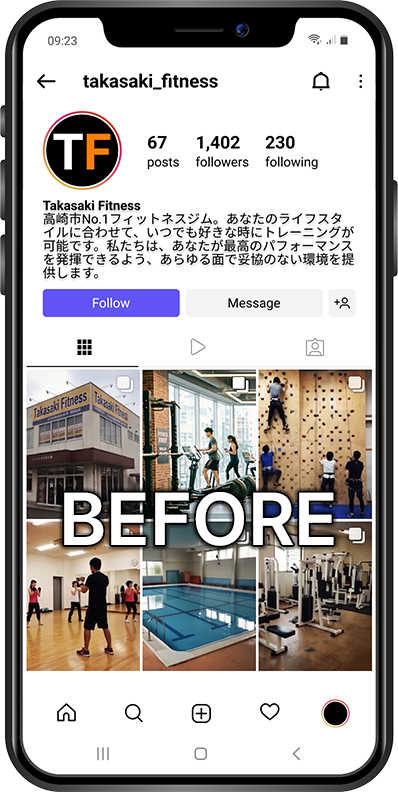
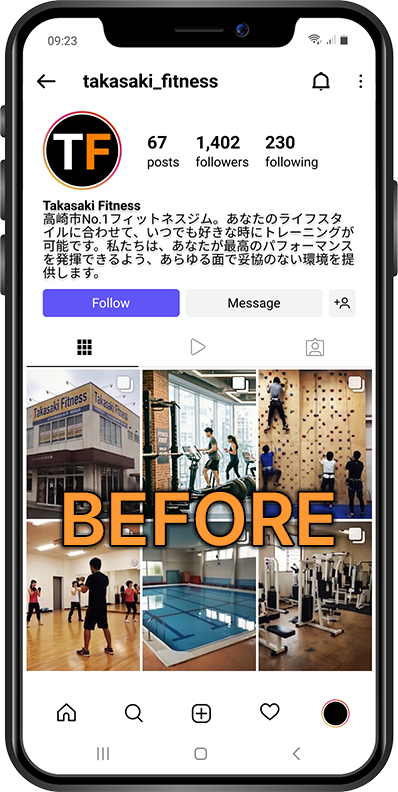
feat: add intersection-triggered overlay to taka case study
Implement an intersection observer to trigger a temporary overlay for the 'taka' case study when it enters the viewport.

Changed region(s): [[0.1508, 0.6061, 0.8442, 0.697]]

diff --git a/src/components/CaseStudies.tsx b/src/components/CaseStudies.tsx
@@ -1,3 +1,4 @@
+import { useState, useEffect, useRef } from "react";
 import { useLanguage } from "@/context/LanguageContext";
 
 interface CaseStudy {
@@ -119,6 +120,41 @@ const cases: CaseStudy[] = [
 
 export const CaseStudies = () => {
   const { t, lang } = useLanguage();
+  const [showInstaOverlay, setShowInstaOverlay] = useState(false);
+  const takaRef = useRef<HTMLElement>(null);
+
+  useEffect(() => {
+    const element = takaRef.current;
+    if (!element) return;
+
+    let timeoutId: any;
+
+    const observer = new IntersectionObserver(
+      (entries) => {
+        entries.forEach((entry) => {
+          if (entry.isIntersecting) {
+            setShowInstaOverlay(true);
+            if (timeoutId) clearTimeout(timeoutId);
+            timeoutId = setTimeout(() => {
+              setShowInstaOverlay(false);
+            }, 1500);
+          } else {
+            setShowInstaOverlay(false);
+          }
+        });
+      },
+      {
+        threshold: 0.15,
+      }
+    );
+
+    observer.observe(element);
+
+    return () => {
+      observer.disconnect();
+      if (timeoutId) clearTimeout(timeoutId);
+    };
+  }, []);
 
   return (
     <div className="space-y-24 lg:space-y-32">
@@ -132,6 +168,7 @@ export const CaseStudies = () => {
         return (
           <article
             key={c.id}
+            ref={c.id === 'taka' ? takaRef : undefined}
             className="grid lg:grid-cols-12 gap-8 lg:gap-12 items-start"
           >
             {/* Image */}
@@ -172,8 +209,18 @@ export const CaseStudies = () => {
                       </picture>
                       {c.id === 'taka' && (
                         <>
-                          <div className="absolute inset-0 bg-black/50 opacity-0 group-hover:opacity-100 transition-opacity duration-500 pointer-events-none z-[5]" />
-                          <div className="absolute inset-0 z-10 pointer-events-none opacity-0 group-hover:opacity-100 transition-opacity duration-500 ease-in-out">
+                          <div 
+                            className={`absolute inset-0 bg-black/50 transition-opacity duration-500 pointer-events-none z-[5] ${
+                              showInstaOverlay ? "opacity-100" : "opacity-0 group-hover:opacity-100"
+                            }`} 
+                          />
+                          <div 
+                            className={`absolute inset-0 z-10 pointer-events-none transition-all duration-500 ease-in-out ${
+                              showInstaOverlay 
+                                ? "opacity-100 scale-100" 
+                                : "opacity-0 scale-[0.98] group-hover:opacity-100 group-hover:scale-100"
+                            }`}
+                          >
                             <img 
                               src={`${import.meta.env.BASE_URL}samples/gym01/Profile-half.png`.replace(/\/+/g, '/')}
                               alt="Takasaki Fitness Profile Overlay"
@@ -216,8 +263,18 @@ export const CaseStudies = () => {
                       </picture>
                       {c.id === 'taka' && (
                         <>
-                          <div className="absolute inset-0 bg-black/50 opacity-0 group-hover:opacity-100 transition-opacity duration-500 pointer-events-none z-[5]" />
-                          <div className="absolute inset-0 z-10 pointer-events-none opacity-0 group-hover:opacity-100 transition-opacity duration-500 ease-in-out">
+                          <div 
+                            className={`absolute inset-0 bg-black/50 transition-opacity duration-500 pointer-events-none z-[5] ${
+                              showInstaOverlay ? "opacity-100" : "opacity-0 group-hover:opacity-100"
+                            }`} 
+                          />
+                          <div 
+                            className={`absolute inset-0 z-10 pointer-events-none transition-all duration-500 ease-in-out ${
+                              showInstaOverlay 
+                                ? "opacity-100 scale-100" 
+                                : "opacity-0 scale-[0.98] group-hover:opacity-100 group-hover:scale-100"
+                            }`}
+                          >
                             <img 
                               src={`${import.meta.env.BASE_URL}samples/gym01/Profile-half.png`.replace(/\/+/g, '/')}
                               alt="Takasaki Fitness Profile Overlay"
